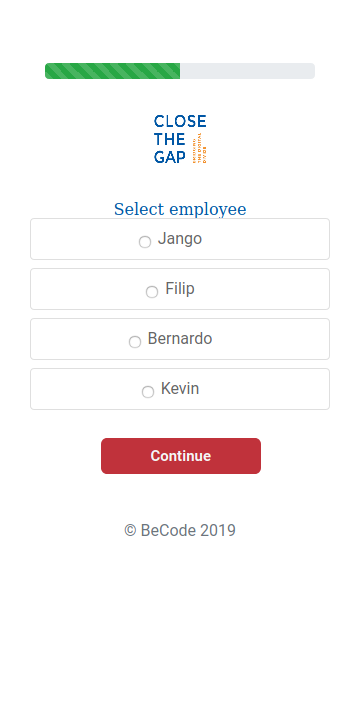
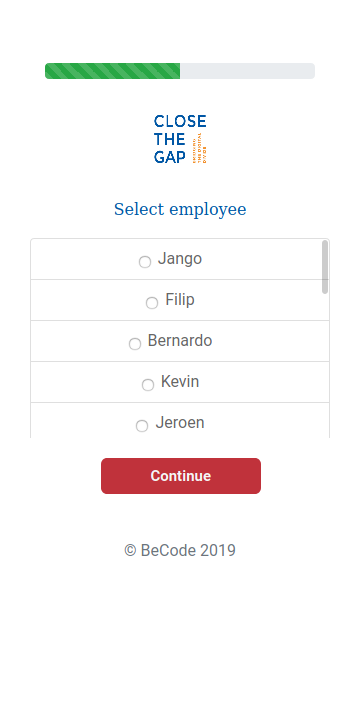
added overflow

diff --git a/Assets/Css/Style.css b/Assets/Css/Style.css
@@ -111,12 +111,19 @@ legend {
     padding-bottom: 10px;
 }
 
-
-
 #endsmiley {
     padding-bottom: 30px;
 }
 
 .thankyou {
     padding-bottom: 30px;
+}
+
+#vertoverflow {
+    height: 200px;
+    overflow-y: scroll;
+}
+
+#selectemployee {
+    padding-bottom: 20px;
 }

diff --git a/ManagerPage/Model/ManConnection.php b/ManagerPage/Model/ManConnection.php
@@ -26,7 +26,8 @@ class ManConnection
         $sql = 'SELECT * FROM mydb.Review JOIN mydb.Department ON Department.id_Department = Review.Department_id_Department
                                           JOIN mydb.Employees ON Employees.id_Employees = Review.Employees_id_Employees
                                           JOIN mydb.Company ON Review.Company_Company_id = Company.Company_id
-                                          JOIN mydb.Tourist ON Review.Tourist_id_Tourist = Tourist.id_Tourist';
+                                          JOIN mydb.Tourist ON Review.Tourist_id_Tourist = Tourist.id_Tourist
+                                          ORDER BY id_Review';
         return $this->pdo->query($sql);
     }
 
@@ -36,7 +37,8 @@ class ManConnection
                 FROM mydb.Review JOIN mydb.Department ON Department.id_Department = Review.Department_id_Department
                                           JOIN mydb.Employees ON Employees.id_Employees = Review.Employees_id_Employees
                                           JOIN mydb.Company ON Review.Company_Company_id = Company.Company_id
-                                          JOIN mydb.Tourist ON Review.Tourist_id_Tourist = Tourist.id_Tourist';
+                                          JOIN mydb.Tourist ON Review.Tourist_id_Tourist = Tourist.id_Tourist
+                                          ORDER BY id_Review';
         $stmt = $this->pdo->query($sql);
 
         //Apache must have write permissions to this location

diff --git a/View/employee.php b/View/employee.php
@@ -18,15 +18,17 @@ $_SESSION["Progress"] = 50;
 <body>
 <form class="form-signin" method="post">
     <?php include "View/header.php" ?>
-    <h3>Select employee</h3>
-    <?php foreach ($employees as $employee): ?>
-        <ul class="list-group pb-2">
+    <h3 id="selectemployee">Select employee</h3>
+    <ul class="list-group pb-2" id="vertoverflow">
+        <?php foreach ($employees as $employee): ?>
+
             <li class="list-group-item">
                 <input class="form-check-input" name="Selectperson" type="radio"
                        value="<?php echo $employee->getId() ?>" required><?php echo $employee->getName(); ?>
             </li>
-        </ul>
-    <?php endforeach; ?>
+
+        <?php endforeach; ?>
+    </ul>
     <div>
         <button type="submit">Continue</button>
     </div>
